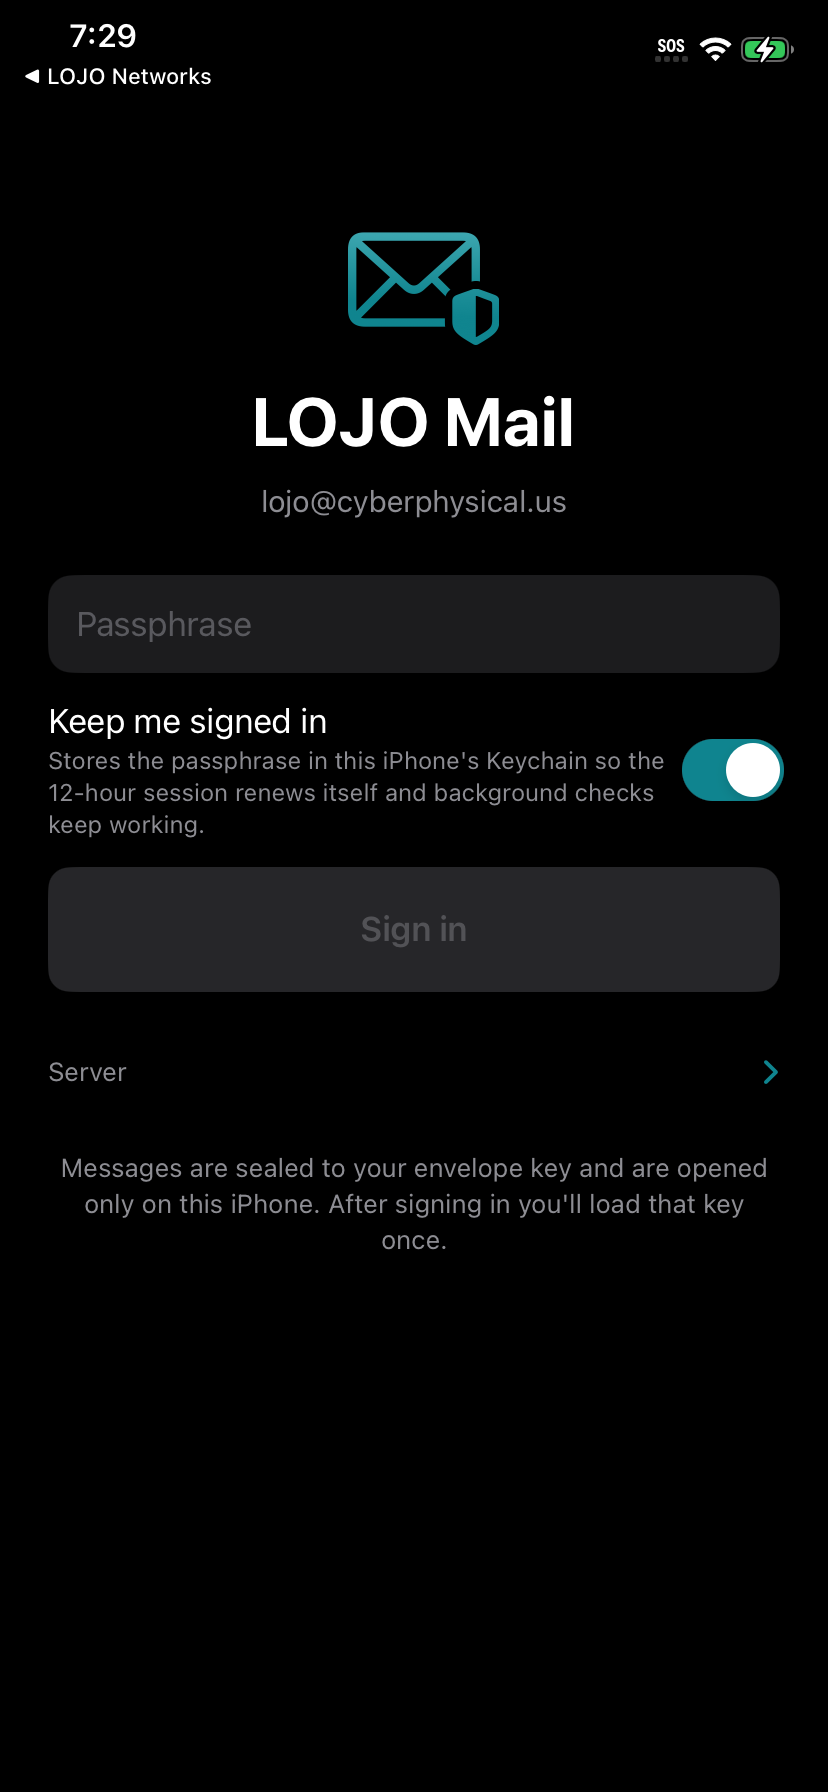
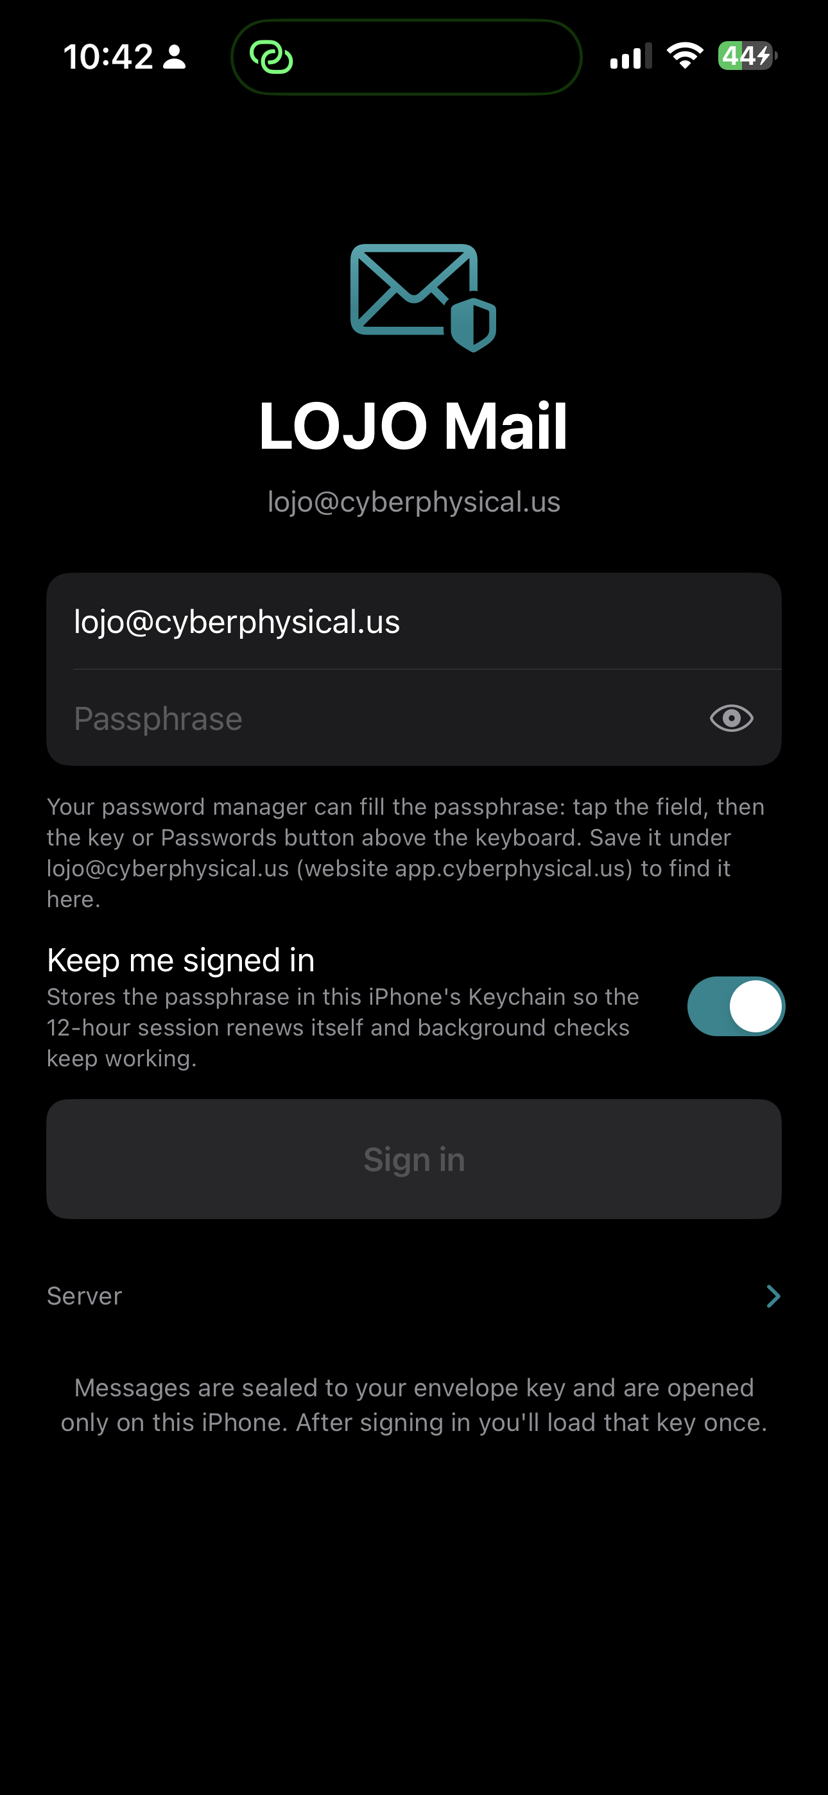
ios: Compose sample-attachments launch option, retake-screenshots script, fresh sign-in/key screenshots from the 14 Pro Max, docs

diff --git a/ios/App/Sources/LojoMail/Design/AttachmentPicking.swift b/ios/App/Sources/LojoMail/Design/AttachmentPicking.swift
@@ -60,6 +60,23 @@ enum AttachmentImport {
         return OutgoingAttachment(filename: name, contentType: type, data: data)
     }
 
+    /// QA only (`LOJO_COMPOSE_SAMPLES=1`): a generated photo and a short note, made in memory.
+    static func samples() -> [OutgoingAttachment] {
+        let size = CGSize(width: 1_600, height: 1_200)
+        let format = UIGraphicsImageRendererFormat()
+        format.scale = 1
+        let image = UIGraphicsImageRenderer(size: size, format: format).image { context in
+            let colors = [UIColor.systemTeal.cgColor, UIColor.systemIndigo.cgColor] as CFArray
+            if let gradient = CGGradient(colorsSpace: CGColorSpaceCreateDeviceRGB(), colors: colors, locations: [0, 1]) {
+                context.cgContext.drawLinearGradient(gradient, start: .zero, end: CGPoint(x: size.width, y: size.height), options: [])
+            }
+        }
+        var files: [OutgoingAttachment] = []
+        if let photo = try? photo(image, name: photoName(1), room: 1_000_000) { files.append(photo) }
+        files.append(OutgoingAttachment(filename: "Gate schedule.txt", contentType: "text/plain", data: Data("North gate: Mon/Wed/Fri 7-9\n".utf8)))
+        return files
+    }
+
     static func photoName(_ index: Int) -> String {
         let stamp = Date.now.formatted(.iso8601.year().month().day())
         return "Photo \(stamp) \(index).jpg"

diff --git a/ios/App/Sources/LojoMail/Services/Provisioning.swift b/ios/App/Sources/LojoMail/Services/Provisioning.swift
@@ -61,6 +61,8 @@ struct LaunchOptions {
     var draft: String?
     var search: String?
     var composeTo: String?
+    /// Opens Compose with two generated sample files, so the attachments UI can be checked and photographed.
+    var composeSamples: Bool
     var previewSignedOut: Bool
 
     static let current: LaunchOptions = {
@@ -72,6 +74,7 @@ struct LaunchOptions {
             draft: env["LOJO_DRAFT"],
             search: env["LOJO_SEARCH"],
             composeTo: env["LOJO_COMPOSE_TO"],
+            composeSamples: env["LOJO_COMPOSE_SAMPLES"] == "1",
             previewSignedOut: env["LOJO_SCREEN"] == "signin"
         )
     }()

diff --git a/ios/App/Sources/LojoMail/Views/ComposeView.swift b/ios/App/Sources/LojoMail/Views/ComposeView.swift
@@ -33,6 +33,9 @@ struct ComposeView: View {
         }
         .onAppear {
             if model == nil { model = ComposeModel(model: app, request: request) }
+            if app.launch.composeSamples, let model, !model.hasAttachments, case .new = request {
+                for sample in AttachmentImport.samples() { model.attach(sample) }
+            }
             if app.launch.screen == .sendconfirm, let model, !model.fields.toList.isEmpty {
                 if model.fields.subject.isEmpty { model.fields.subject = "LOJO Mail iOS test" }
                 confirmSend = true

diff --git a/ios/README.md b/ios/README.md
@@ -21,11 +21,20 @@ signed with a free Apple ID and installed over USB, the same way as
   (filters the loaded list as you type, searches the server on Return); swipe to mark read, star, archive, trash
   (soft delete, restorable for the retention period) and restore; Move to any folder from the context menu.
 - **Reading**: bodies decrypted on the phone ("Sealed to your key"), links detected, AI summary and phishing warning,
-  sender verdicts, attachments decrypted and opened in Quick Look (temporary file, deleted when closed).
+  sender verdicts. Attachments are decrypted on tap: preview in Quick Look, or from the row's menu (or a long press)
+  **Share…** or **Save to Files**. The decrypted copy is a temporary file, deleted when the preview or sheet closes.
 - **Writing**: compose, reply, reply all, forward, and "AI reply". Save a draft, put it in the approval queue, ask the
   AI to rewrite it, or **Approve and send** behind a confirmation that names the recipients and the From address. The
   approval is bound to the exact reviewed content; if a bot changed the draft meanwhile, the app shows what changed and
   makes you look before it will send.
+- **Attachments in Compose**: the paperclip (toolbar or the Attachments section) adds photos from the library, a new
+  photo from the camera, or any file from Files. Each shows its name, size and a remove button, with a meter against
+  the **4 MB message limit** (the same limit as Thunderbird's direct send, counted after base64 encoding: about
+  2.9 MB of files). Photos go out as JPEG without location data, shrunk if they wouldn't fit. Files stay in memory.
+  **The deployed API can't take attachments on drafts yet**, so on today's server the app shows the files but won't
+  send or queue a draft that has any; it says so in Compose and Settings. The change the server needs is written up
+  in [docs/API-ATTACHMENTS.md](docs/API-ATTACHMENTS.md); the app already speaks it and switches on by itself when
+  `/v1/settings` advertises `draftAttachments`. Forwarding re-attaches the original's files once that is live.
 - **Review**: drafts waiting for approval, drafts written by the AI, bots or Thunderbird, and your own drafts; open one
   to edit and send, swipe to discard.
 - **AI Rules**: status of the rules engine and every rule; a big **Stop all autonomous sending** button (the rules
@@ -37,7 +46,9 @@ signed with a free Apple ID and installed over USB, the same way as
   whenever iOS decides to run background refresh, which can be hours apart.
 - **Settings**: session expiry, key fingerprint / replace / remove (with import instructions), send test mode, notifications, Face ID lock,
   server URL, sign out.
-- Dark mode, Dynamic Type, VoiceOver labels, empty / error / offline / missing-key states throughout.
+- Dark mode (the teal is adjusted per mode for 4.5:1 text contrast), Dynamic Type (chips wrap, list rows stack at
+  accessibility sizes, icons scale), VoiceOver labels, empty / error / offline / missing-key states throughout. iPad
+  runs in every orientation with readable line lengths.
 
 ## Build and install
 
@@ -50,7 +61,8 @@ ios/scripts/deploy-phone.sh             # build, sign with the free Apple ID, in
 ios/scripts/provision-phone.sh          # hand the app a fresh session + the envelope key over USB (optional)
 ```
 
-The phone's UDID is read from USB at run time (or `LOJO_UDID`); it is never written to the repo. The installed bundle
+With more than one iPhone on USB the scripts refuse to guess: pick one with `LOJO_PHONE="14 Pro Max"` (or `"11"`;
+the error lists what is attached), or `LOJO_UDID`. The UDID is read from USB at run time and never written to the repo. The installed bundle
 ID is `XTL-HG9HAYXW44.com.lojo.Mail` (xtool prefixes the team ID).
 
 ### Signing in on the phone
@@ -100,7 +112,11 @@ ios/scripts/test-core.sh --live        # + read-only checks against the deployed
 ios/scripts/test-core.sh --live-write  # + mail actions, kill switches, and one real send to lojo-test@cyberphysical.us
 ```
 
-## Screenshots (iPhone 11, iOS 26.6.2, dark mode)
+## Screenshots (dark mode)
+
+iPhone 11 (iOS 26.6.2), except sign-in and key setup from the iPhone 14 Pro Max (iOS 26.6.1). After installing a
+build, `LOJO_PHONE="14 Pro Max" ios/scripts/retake-screenshots.sh` retakes them all, plus `15-compose-attachments.png`
+(Compose with two generated sample files); it only launches the app.
 
 | | | |
 | --- | --- | --- |

diff --git a/ios/docs/TESTING.md b/ios/docs/TESTING.md
@@ -37,11 +37,42 @@ only choose what is on screen; none of them sends or changes mail.
 | `LOJO_DRAFT` | a draft ID (default: first open draft) |
 | `LOJO_SEARCH` | a search query |
 | `LOJO_COMPOSE_TO` | prefilled recipient |
+| `LOJO_COMPOSE_SAMPLES` | `1`: Compose opens with a generated photo and a text file attached (memory only) |
+
+Several iPhones on USB: every phone script needs `LOJO_PHONE` (`"14 Pro Max"`, `"11"`) or `LOJO_UDID`, and lists the
+attached models if it is missing. `ios/scripts/retake-screenshots.sh [01 08 …]` retakes the README screenshots from
+the installed build (launch only).
 
 Verified on the iPhone 11 (iOS 26.6.2) by screenshot: sign-in, Inbox from the live API, a thread with its body
 decrypted on the phone, an image attachment decrypted and shown in Quick Look, server search, Sent and Trash, a
 trashed thread with "Trashed by you", compose, the send confirmation, the review queue, a queued draft, AI Rules with
 both kill switches, Settings, and key setup.
+
+## Tester pass for attachments and the interface (2026-09-30)
+
+Built with `deploy-phone.sh --build`, core tests and `--live-write` green against the deployed API (the approval body
+is unchanged when a draft has no files). **Not installed on a phone** (Jon installs), so the new screens were checked
+by reading every view and flow, not on a device. Sign-in and key setup were retaken from the 14 Pro Max's installed
+build, whose screens match this code. Defects found and fixed:
+
+- With two iPhones attached, `deploy-phone.sh` installed on whichever USB listed first and `phone-shot.sh` let
+  pymobiledevice3 choose; they now require `LOJO_PHONE` / `LOJO_UDID` when there is more than one.
+- `phone-shot.sh` captured a black screen on a cold launch (6 s wait); the default is now 10 s.
+- The 14 Pro Max writes 16-bit 1290 px PNGs; screenshots are now converted to 8-bit 828 px to match the rest.
+- Teal text was 3.8:1 on dark grouped cards (under 4.5:1); the accent now has light and dark variants.
+- Chip rows (thread, list, rules) clipped at large text sizes; they wrap now. The avatar and lock icon didn't scale.
+  List rows at accessibility sizes now put the date under the sender.
+- The thread stretched edge to edge on iPad landscape; it now has a readable width. iPad allows all orientations.
+- Review: swipe to discard ignored failures silently; a draft without recipients showed a bare "To:".
+- Settings: a changed server URL only applied from the keyboard's Return key; there's now a button. Settings also
+  shows whether the server accepts attachments from the app.
+- Compose: an attachment error appeared at the bottom of the form, far from the paperclip. Closing with "Save draft"
+  silently dropped files the server can't store; the dialog now says so. A disabled Approve button didn't say why.
+- Cancelling Save to Files could surface a "user cancelled" error.
+
+Still to check on the phone after installing: the three pickers (the camera asks for permission the first time), the
+size meter and the "too big" message with a large file, Share… and Save to Files on a received attachment, the
+interface at the largest Dynamic Type size and with VoiceOver, and an iPad if one is handy.
 
 ## Not tested yet
 
@@ -60,5 +91,6 @@ both kill switches, Settings, and key setup.
 - **Reply/forward into real threads** (`threadId`/`inReplyTo`), **AI reply** and **AI rewrite** against the live
   LLM, and **PGP** modes other than auto.
 - **HTML mail** renders as text (the app converts HTML to plain text when a message has no text part).
-- **Large attachments** (only a 70 KB vector and the one real image), and attachment types Quick Look can't show.
-- Dynamic Type at the largest accessibility sizes, and VoiceOver end to end.
+- **Large received attachments** (only a 70 KB vector and the one real image), and types Quick Look can't show.
+- **Sending attachments** end to end: needs the server change in API-ATTACHMENTS.md first.
+- Dynamic Type at the largest accessibility sizes, and VoiceOver end to end, on a device.

diff --git a/ios/docs/SECURITY.md b/ios/docs/SECURITY.md
@@ -35,8 +35,14 @@ The web app's threat model (`docs/SECURITY.md`) still applies. This covers what 
 - **Decrypted bodies live in memory only** and are dropped on sign-out.
 - **Metadata cache** (from, subject, snippet, flags; no bodies, no AI text) in Application Support with
   `completeUntilFirstUserAuthentication` file protection, excluded from backup. Cleared on sign-out.
-- **Attachments** are decrypted to a temp file with `complete` file protection, shown in Quick Look, deleted on
-  close, and the temp directory is purged on launch.
+- **Received attachments** are decrypted to a temp file with `complete` file protection for Quick Look, Share… or
+  Save to Files, deleted when that closes (Save to Files moves the file out), and the temp directory is purged on
+  launch and sign-out.
+- **Attachments you add in Compose** are held in memory only, never written to the phone's disk. Photos are
+  re-encoded as JPEG, which drops EXIF location. Files from Files are sent as they are. On a server with draft
+  attachments, each file is uploaded with its SHA-256 and the approval names those hashes, so a bot can't swap a file
+  after Jon reviewed it ([API-ATTACHMENTS.md](API-ATTACHMENTS.md)). The camera permission is only asked when you tap
+  Take Photo.
 - Optional **Face ID lock** covers the UI when the app returns from the background.
 
 ## Sending
